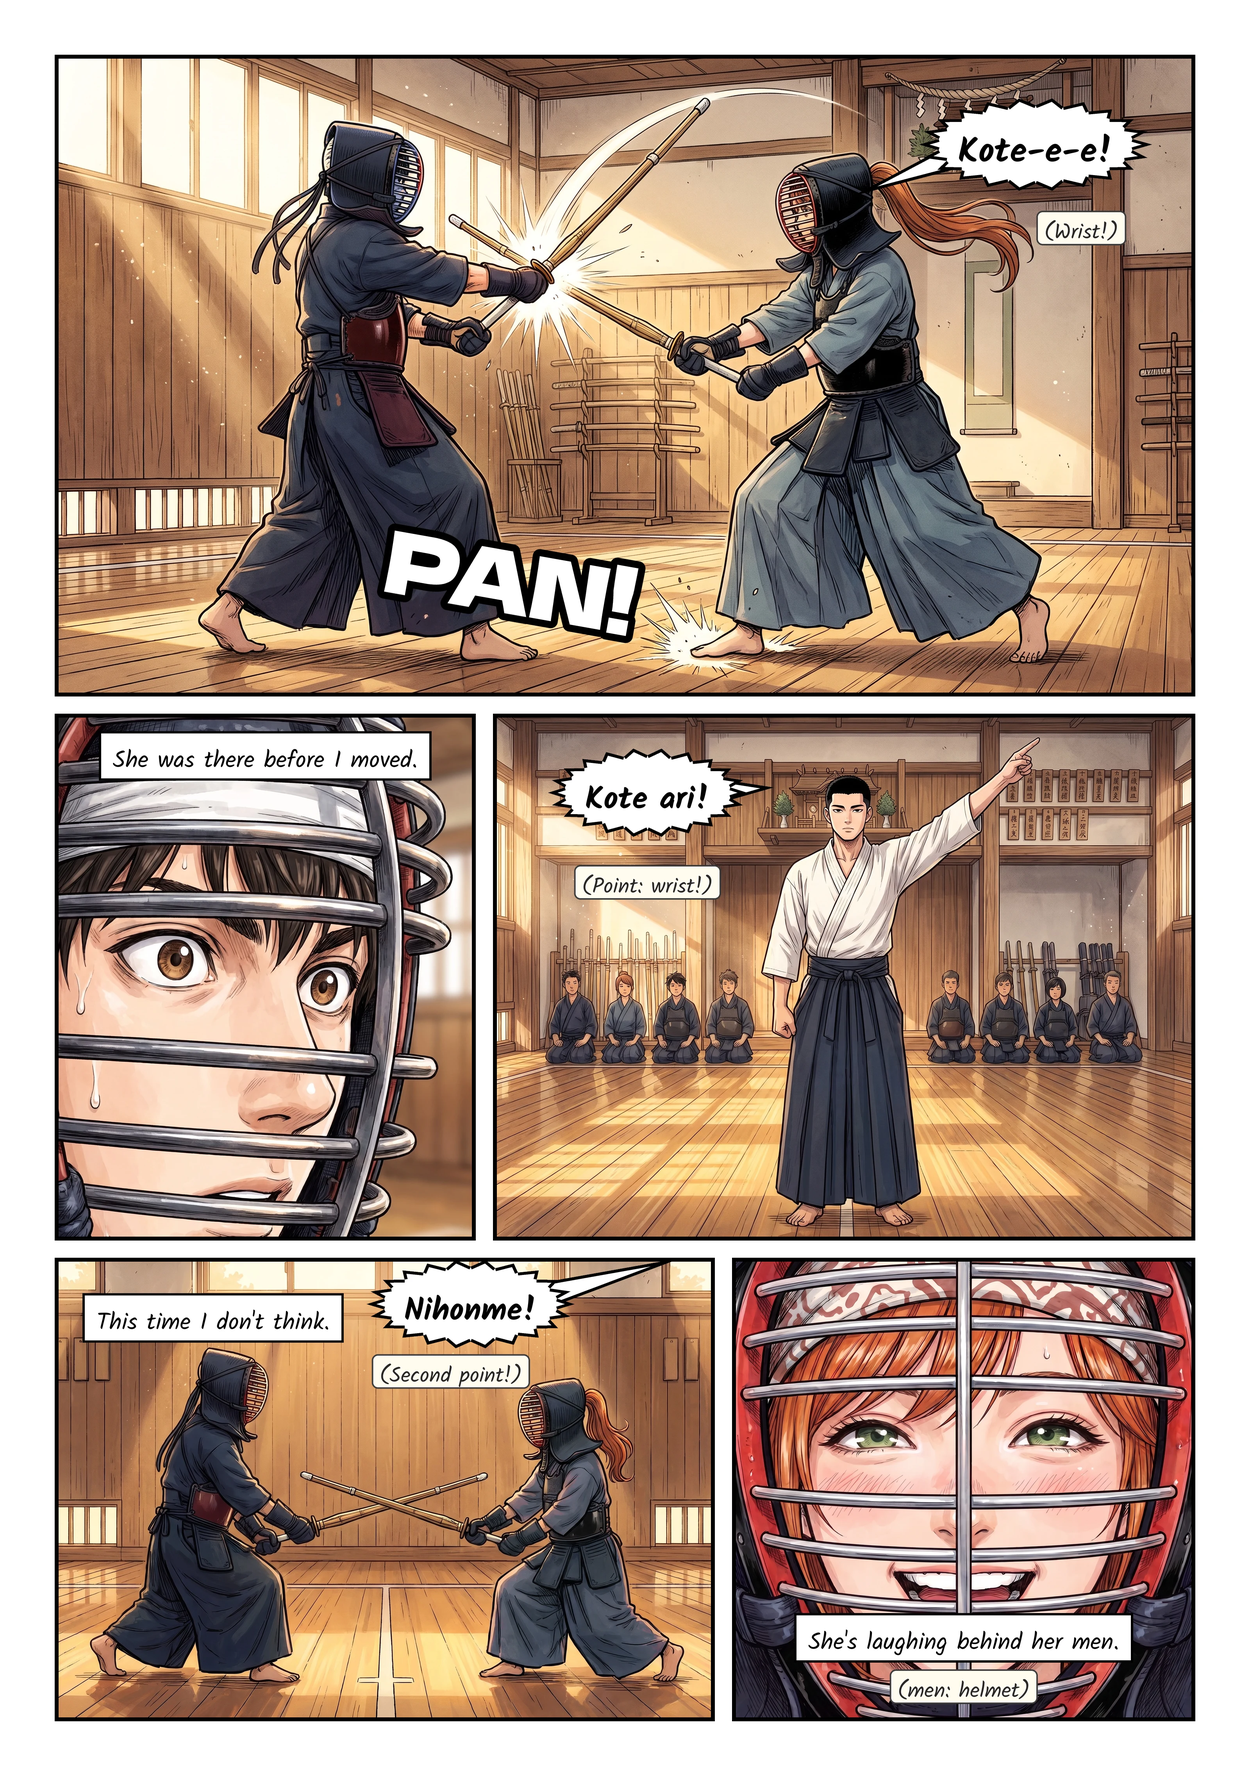
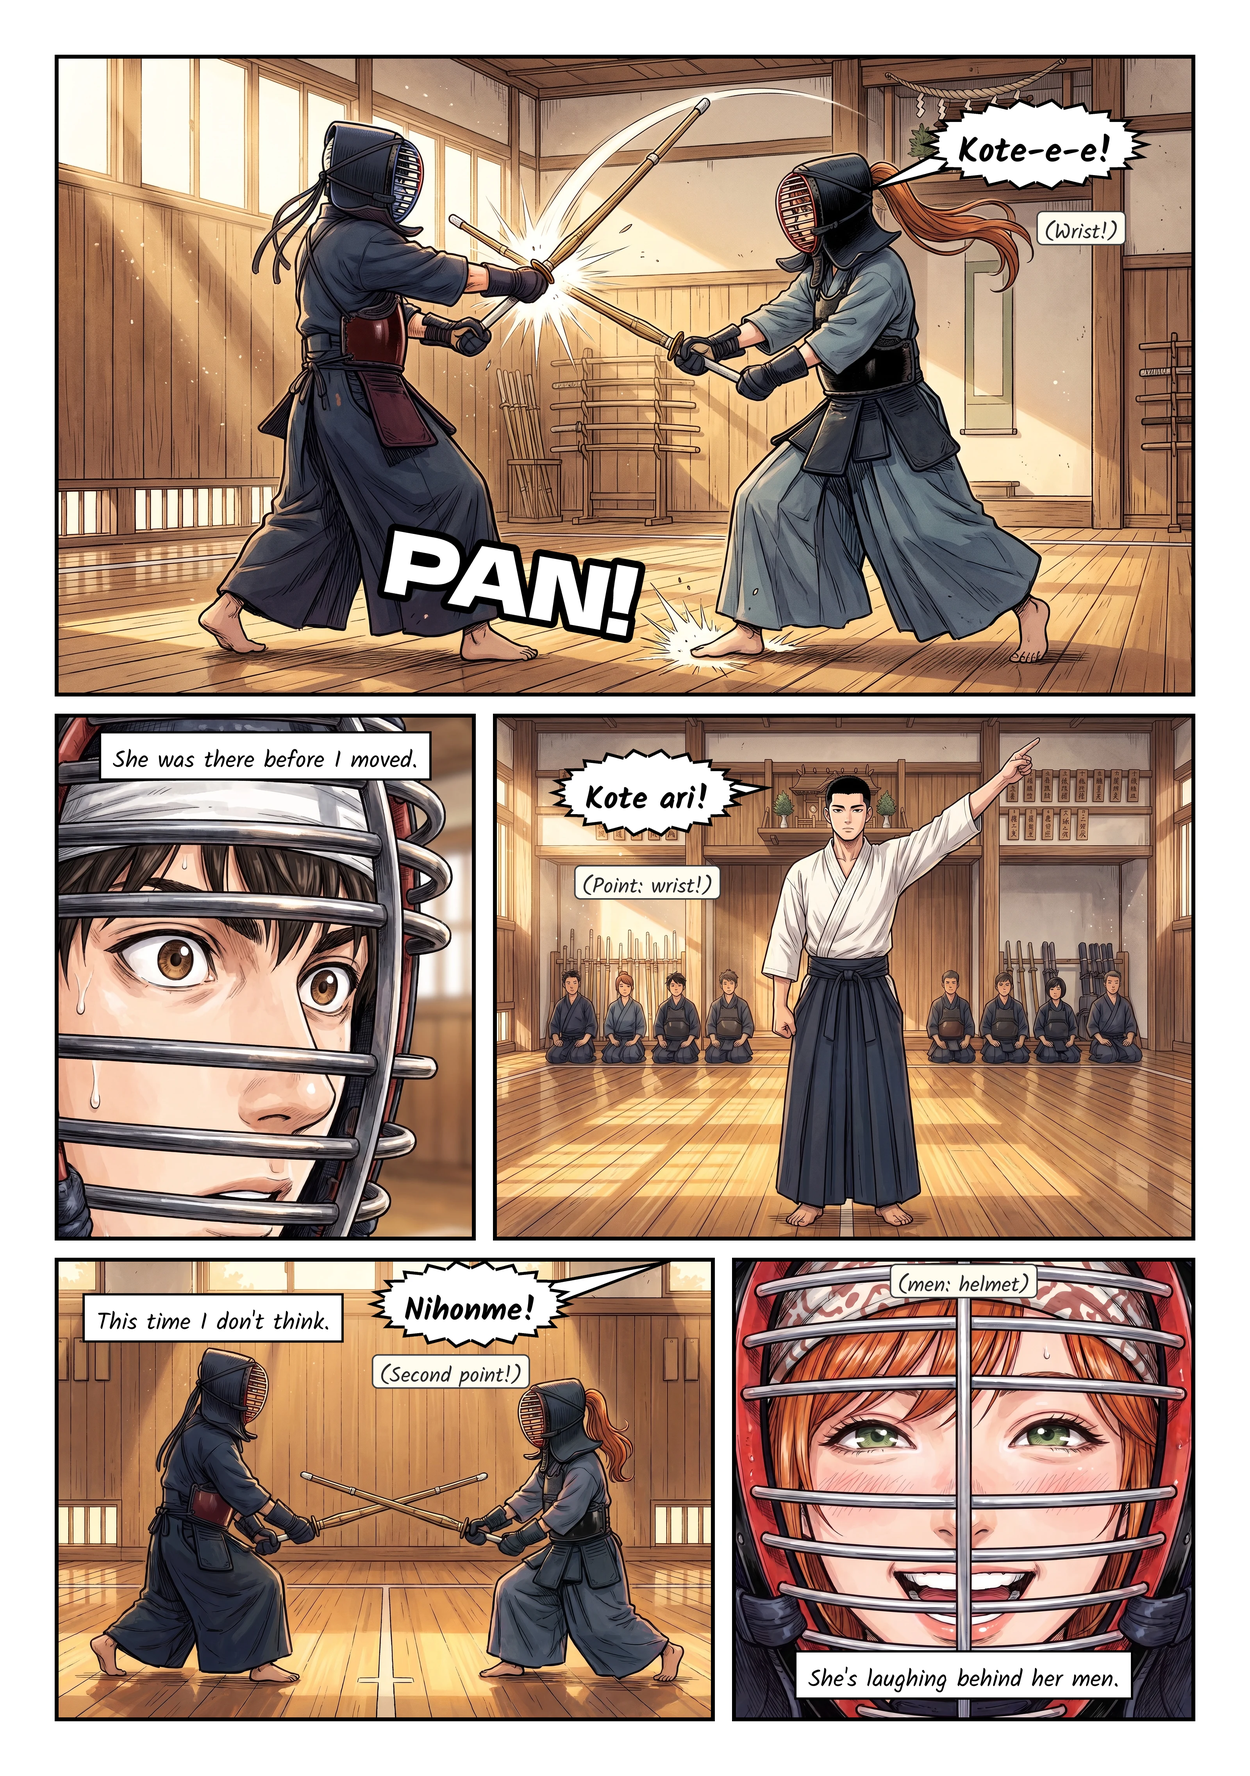
Ch2 punch list: independent check's must-fix (p2-4 caption off her mouth), note popups show the tapped use's gloss, walk to school on the river path; records, log and handover addendum
Claude-Session: https://claude.ai/code/session_01RwxJ99cbnypmrRJW8WLjFt

Changed region(s): [[0.625, 0.9062, 0.9062, 0.9688], [0.7188, 0.6875, 0.8438, 0.75]]

diff --git a/v2/index.html b/v2/index.html
@@ -636,15 +636,15 @@ let curSegs=[], curLen=0;
 function renderTo(n){ textEl.textContent=''; let left=n, wrap=null;
   for(const x of curSegs){ if(left<=0) break; const piece=x.t.slice(0,left); left-=x.t.length;
     let parent=textEl;
-    if(x.n){ if(!x.g||!wrap){ wrap=document.createElement('span'); wrap.className='tn'; wrap.dataset.n=x.n; wrap.setAttribute('role','button'); wrap.tabIndex=0; textEl.appendChild(wrap); } parent=wrap; }
+    if(x.n){ if(!x.g||!wrap){ wrap=document.createElement('span'); wrap.className='tn'; wrap.dataset.n=x.n; if(x.gl){ wrap.dataset.t=x.t; wrap.dataset.g=x.gl; } wrap.setAttribute('role','button'); wrap.tabIndex=0; textEl.appendChild(wrap); } parent=wrap; }
     else wrap=null;
     if(x.g){ const sp=document.createElement('span'); sp.className='gl'; sp.textContent=piece; parent.appendChild(sp); } else parent.appendChild(document.createTextNode(piece)); } }
 const noteEl=$('#note');
 function noteOn(){ return noteEl.classList.contains('on'); }
 let noteKey=null;
-function openNote(k){ const body=NOTES[k]; if(!body) return; setSkip(false); clearTimeout(autoTimer); noteKey=k;
+function openNote(k, term, gloss){ const body=NOTES[k]; if(!body) return; setSkip(false); clearTimeout(autoTimer); noteKey=k;
   if(!seenNotes[k]){ seenNotes[k]=1; store.set('v2notes',seenNotes); }   // reading a note always counts as meeting it
-  const s=NOTE_T[k]||{}; noteEl.querySelector('.nt').textContent=s.term||k; noteEl.querySelector('.ng').textContent=s.gloss||'';
+  const s=NOTE_T[k]||{}; noteEl.querySelector('.nt').textContent=term||s.term||k; noteEl.querySelector('.ng').textContent=gloss||s.gloss||'';   // the tapped use's own spelling and gloss (Oct 25)
   noteEl.querySelector('.nb').textContent=body; noteEl.classList.add('on'); }
 function closeNote(){ if(!noteOn()) return; noteEl.classList.remove('on'); noteKey=null; if(curLine&&!typing) scheduleAuto(); }
 function markNotes(){ if(skipOn) return; let dirty=false; curSegs.forEach(x=>{ if(x.n&&!x.g&&!seenNotes[x.n]){ seenNotes[x.n]=1; dirty=true; } }); if(dirty) store.set('v2notes',seenNotes); }
@@ -1128,7 +1128,7 @@ function toTitle(){
 let downTyping=false;
 app.addEventListener('pointerdown',()=>{ downTyping=typing; }, true);
 textEl.addEventListener('click',e=>{ const t=e.target&&e.target.closest&&e.target.closest('.tn'); if(!t||typing||downTyping) return;
-  e.stopPropagation(); openNote(t.dataset.n); if(e.detail) t.blur(); });   // a pointer tap leaves no keyboard focus on the term
+  e.stopPropagation(); openNote(t.dataset.n, t.dataset.t, t.dataset.g); if(e.detail) t.blur(); });   // a pointer tap leaves no keyboard focus on the term
 textEl.addEventListener('mousedown',e=>{ if(e.target&&e.target.closest&&e.target.closest('.tn')){ e.preventDefault(); const a=document.activeElement; if(a&&a!==document.body&&a.blur) a.blur(); } });   // pointer presses don't focus a term (keyboard Tab still does)
 document.addEventListener('click',e=>{ if(!noteOn()) return; const t=e.target, tn=t&&t.closest&&t.closest('.tn');
   if(tn && tn.dataset.n!==noteKey) return;   // a different term opens its own note
@@ -1147,7 +1147,7 @@ document.addEventListener('keydown',e=>{
   if(noteOn() && (e.key==='Escape'||e.key===' '||e.key==='Enter'||e.key==='ArrowRight')){ e.preventDefault(); closeNote(); return; }
   if(noteOn() && devOn && (e.key==='ArrowLeft'||e.key==='PageUp'||e.key==='PageDown')) closeNote();
   const tn=e.target&&e.target.closest&&e.target.closest('.tn');
-  if(tn && (e.key===' '||e.key==='Enter') && !typing){ e.preventDefault(); openNote(tn.dataset.n); return; }
+  if(tn && (e.key===' '||e.key==='Enter') && !typing){ e.preventDefault(); openNote(tn.dataset.n, tn.dataset.t, tn.dataset.g); return; }
   if(e.key===' '||e.key==='Enter'||e.key==='ArrowRight'){ if(!overlayOpen()&&!(e.target&&e.target.closest&&e.target.closest('button,input'))){ e.preventDefault(); if(skipOn) setSkip(false); else advance(); } }
   if(e.key==='Escape') closePanels();
   if(devOn && S && $('#title').hidden && !overlayOpen()){ if(e.key==='ArrowLeft'){ e.preventDefault(); stepLine(-1); } else if(e.key==='PageUp'){ e.preventDefault(); stepScene(-1); } else if(e.key==='PageDown'){ e.preventDefault(); stepScene(1); } }
@@ -1184,7 +1184,8 @@ function loadScript(){
   if(!scriptP) scriptP=fetch('script.json').then(r=>{ if(!r.ok) throw new Error('could not load the story (script.json '+r.status+')'); return r.json(); })
     .then(j=>{ S=j.script; SPK=j.speakers; SIG=sigOf(S); S.forEach(c=>{ if(c.t==='scene'&&c.title) SCENE_T[c.id]=c.title; });
       NOTES=(j.notes&&typeof j.notes==='object')?j.notes:{}; NOTE_T={};
-      S.forEach(c=>{ if(c.text) for(const m of String(c.text).matchAll(/\{([^|}]+)\|([^|}]+)(?:\|([^}]+))?\}/g)){ if(m[3]) continue; const k=m[1].trim().toLowerCase(); if(NOTES[k]&&!NOTE_T[k]) NOTE_T[k]={term:m[1].trim(), gloss:m[2].trim()}; } }); $('#mCont').disabled=!store.get('v2cont',null); return j; })
+      S.forEach(c=>{ if(c.text) for(const m of String(c.text).matchAll(/\{([^|}]+)\|([^|}]+)(?:\|([^}]+))?\}/g)){ if(m[3]) continue; const k=m[1].trim().toLowerCase(); if(NOTES[k]&&!NOTE_T[k]) NOTE_T[k]={term:m[1].trim(), gloss:m[2].trim()}; } });
+      Object.keys(NOTES).forEach(k=>{ if(!NOTE_T[k]) NOTE_T[k]={term:k, gloss:''}; }); $('#mCont').disabled=!store.get('v2cont',null); return j; })
     .catch(e=>{ scriptP=null; throw e; });
   return scriptP;
 }

diff --git a/story/production-log.md b/story/production-log.md
@@ -9,8 +9,8 @@ The status board, recent decisions (from Oct 15), the open budget, known issues 
 | Chapter | Stage | Owner | Next |
 |---|---|---|---|
 | Ch1 (with the dream at 1.8) | **Approved** (author, Oct 24), **with the cold open as a placeholder** to be edited later (see its row); approved build = commit `05a993b`, kept on GitHub as the branch `approved/v2-ch1` (this session's git proxy refuses tag pushes; the local tag `v2-ch1-approved` points at the same commit, so push it from a session that can). It's the regression baseline for any later Ch1 fix (style guide §9 step 10). History: handover `production/pilot-v2/reviews/ch1/handover-oct18.md`, fix rounds 2–3 (`build-review.md`), punch lists Oct 19, Oct 20 and Oct 24 (`punch-oct*.md`) | Production | Done. Its [P] details go to the Story thread to fold into canon (pilot-notes §3, the Oct 18–24 lists) |
-| Ch2 "Kendo" | **Handed over** (Oct 25) for the author's playthrough; build = branch `v2-ch2` (also on `main` for the link). Handover `production/pilot-v2/reviews/ch2/handover-oct25.md` | Author | Play and flag what doesn't work; answer the Nanoha-scene question (cold reads: all six readers asked for one; the casual reader at 70% Natsuki on the ending) |
-| Ch3–4 | **Outline approved** (author, Oct 24) | Production | After Ch2's punch list. Going over the $40 cap is approved; about $37.00 spent |
+| Ch2 "Kendo" | **Punch list applied** (author's list of Oct 25; record `production/pilot-v2/reviews/ch2/punch-oct25.md`), handed back Oct 25 on the same link; build = branch `ch2-punch-oct25` (merged to `main`). First handover `reviews/ch2/handover-oct25.md` | Author | Play the changes; answer the gloss question (all three round-3 cold readers found the every-use glosses tiring: keep, or inline English once per scene with the tappable underline on every use) |
+| Ch3–4 | **Outline approved** (author, Oct 24) | Production | After Ch2 is approved (chapter-by-chapter review). Going over the $40 cap is approved; about $40.20 spent |
 | Cold open | **Deferred** until most of the story is written (Oct 19; briefly taken out on Oct 20, then put back the same evening) | — | The author returns to it then: what goes there, and whether it's animated or music over CGs. The build keeps the Oct 18 version, which a tap skips once seen |
 
 **Other work**
@@ -33,7 +33,7 @@ The status board, recent decisions (from Oct 15), the open budget, known issues 
 - Approval of the chapter map (its header still marks it a Proposal). The W7 question was answered Oct 21 (yes).
 - The Prologue/Ch1 dream music (`memory`, silence, or a new cue at about $2), after he hears the Ch2 catch.
 - Pilot names, kanji and POV (pilot-notes §1).
-- Whether Ch2 gets a short Nanoha scene: he leans no (Oct 25), not committed. Whether the reader windows widen from 3–4 to 4–8 chapters: after the pilot.
+- Ch2's glosses: every use (as asked, Oct 25) or inline once per scene with the underline on every use (all three round-3 cold readers found every use tiring). Whether the reader windows widen from 3–4 to 4–8 chapters: after the pilot. Whether Ch1 also gets Natsuki at +0.5 (Ch1 stays at +1 for now, as asked).
 
 **Threads and who owns what:** the repo's `CLAUDE.md`.
 
@@ -122,16 +122,17 @@ The status board, recent decisions (from Oct 15), the open budget, known issues 
 | 10-25 | **Ch2 built and handed over** (Production; §9 in full): writing gates, art with on-model checks (two rounds), 152 voiced lines transcript-checked twice, iPad playthrough with phone and desktop spot checks, the snapshot diff against the approved Ch1, an independent build review (5 must-fix items fixed, then re-run). Handover `production/pilot-v2/reviews/ch2/handover-oct25.md`; [P] list in pilot-notes §3. Engine fixes that also touch Ch1: the living-still guard (broken on this branch only, Oct 24) and entering sprites no longer slide. |
 | 10-25 | **[P] (Production): Kōhei's work clothes are a white T-shirt and brown bib apron** (style guide §2; was white shirt and waist apron), matching the script's apron with the cartoon chef. Easy to reverse. |
 | 10-25 | **Decided (author): the "no reader sure" rule is loosened.** A cold reader may pass 70% at a single checkpoint, as long as it evens out as the chapters go (his words). The windows stay at about 3–4 chapters for now; whether they widen to 4–8 is open until after the pilot. **The Ch2 Nanoha scene:** he's inclined to leave Ch2 without one ("normal in manga," not both girls in every chapter), not yet committed. For Story (canon §5) and Planning (§9 step 3, `review/cold-reader.md`): `production/pilot-v2/handoff-story-oct25.md`. |
+| 10-25 | **Ch2 punch list (author, after playing Ch2; record `production/pilot-v2/reviews/ch2/punch-oct25.md`).** **Decided (author):** a short Nanoha scene in Ch2 after all ("I am kind of swinging around to your view"; the shape left to Production: Wednesday morning in his kitchen, `c2_morning`); Japanese terms get their gloss and tappable note on **every** use, not just the first (style guide §5); manga inserts open on the first panel with no whole-page view (§4a); Natsuki at +0.5 semitone for Ch2 only, Ch1 stays at +1 for now. **Also fixed:** the confusing container line cut; c2_0090 names Mizuno; a whiteboard CG of her drawing; clearer mop and interlude lines; the snow line replaces "mostly vending machines"; the practice music stops at the end of practice; the catch animation now shows the slip and the fall; a face-window bug that showed the previous face on a cold cache; a "Tap to continue" hint during texts. Checks: a writing check, cold read round 3 (no reader at 70% anywhere; ending Natsuki 58, wanting about even, dream woman Natsuki 55), an on-model check (two must-fix rounds on the catch and the whiteboard), playthroughs at all three sizes, the Ch1 regression diff, and an independent check (one must-fix, fixed). About $3.20; running total about $40.20. |
 
 ## 3. Budget (open lines)
 | Line | Cap | Spent | Notes |
 |---|---|---|---|
-| Pilot v2 (Prologue + Ch1–4), Oct 16 | $40 (going over approved Oct 24) | about $37.00 (Oct 20: + about $2.25 for Natsuki's restyle and about $1.46 for her Ch1 art; Oct 24: + about $4.70 for her face A, the Ch1 punch list and her re-voice; Oct 24–25: + about $15.30 for Ch2) | Ch1: ~37 images, 2 living stills, 40 voice takes, 4 rounds of transcript checks. Ledger: `production/pilot-v2/ledger.md` |
+| Pilot v2 (Prologue + Ch1–4), Oct 16 | $40 (going over approved Oct 24) | about $40.20 (Oct 20: + about $2.25 for Natsuki's restyle and about $1.46 for her Ch1 art; Oct 24: + about $4.70 for her face A, the Ch1 punch list and her re-voice; Oct 24–25: + about $15.30 for Ch2; Oct 25: + about $3.20 for the Ch2 punch list) | Ch1: ~37 images, 2 living stills, 40 voice takes, 4 rounds of transcript checks. Ledger: `production/pilot-v2/ledger.md` |
 | Manga Vol. 1 | $50 | $33.01 | **On hold**, about $17 left; 8 known issues (§4) |
 
 Closed lines (tests, the shipped pilot, design passes, music cues): see the archive.
 
-**Cumulative fal spend:** about $105–110 (Oct 25). fal's dashboard has the exact figure.
+**Cumulative fal spend:** about $108–113 (Oct 25). fal's dashboard has the exact figure.
 
 ## 4. Known issues
 **Manga Vol. 1, worst first:**

diff --git a/production/pilot-v2/reviews/ch2/punch-oct25.md b/production/pilot-v2/reviews/ch2/punch-oct25.md
@@ -12,7 +12,7 @@ The author played Ch2 on his iPad and sent this list (discussion first, then "go
 | 6 | Manga inserts: don't show the full page before panel by panel | The insert opens on its first panel; page turns open on the next page's first panel (style guide §4a updated) |
 | 7 | "The floor belongs to whoever stays after practice" is confusing | "Until the first-years join, whoever stays after practice cleans the floor. It's usually me." |
 | 8 | Switch the music after practice (the practice cue is battle music) | The practice cue fades out at the bow that ends practice (start of the debrief); the debrief and the mop race play without music; `memory` comes in at the catch, as before |
-| 9 | The catch animation doesn't show her falling and being caught | Rebuilt: a new start frame with her heel slipping and him a step away, a Kling shot of the fall and catch with a push-in, joined on the held catch to the approved settle into the CG (5.4 s; `art/prompts.md`) |
+| 9 | The catch animation doesn't show her falling and being caught | Rebuilt: a new start frame with her heel slipping and him a step away, a Kling shot of the fall and catch with a push-in, joined on the held catch to the approved settle into the CG (5.1 s; `art/prompts.md`). The art check sent it back once (the first version zoomed the figures against a still room and put his hand across her torso); the second version starts at the catch's own framing |
 | 10 | c2_0215: his face flashed embarrassed, then normal (first time only) | A real bug: the face window kept the previous face until the new one loaded (so only on a cold cache). Face windows now wait for their image, and upcoming faces load ahead |
 | 11 | "Mostly vending machines" doesn't work | "Sapporo is four hundred pictures of snow." (re-voiced) |
 | 12 | c2_0259: the same face flash (Kōhei's face before Natsuki's) | Same fix as 10 |
@@ -24,4 +24,9 @@ The author played Ch2 on his iPad and sent this list (discussion first, then "go
 ## Checks
 - **Writing check** (fresh agent; continuity, speech sheets, Japanese pass, glosses) on every new or changed line: three must-fix items applied (the whiteboard CG moved after Rika's punchline; c2_0315 "looks at me properly"; c2_0282's ending), plus c2_0174 "cleans", c2_0313 ("after karaoke, with some girls from class"; 連中 was dismissive), c2_0316 "That one's new.", and zanshin glossed "staying alert after the strike" where Takatsuki uses it. Kept on purpose: two girls reading Kōhei's face in one chapter (§3b lists it as a tic; here one notices a physical detail and the other keeps a catalogue). For Story: c2_0324's change of subject resembles Ch3's window talk; "Chibi" (c1_0256) has no gloss (a nickname; the author's call).
 - **Voices:** 15 new takes transcript-checked (Wizper; 15 of 15 match); levels within the usual range (only the two known dream lines flag).
-- (cold read, on-model check, playthrough, snapshot diff and the independent check: below as they finish)
+- **Cold read, round 3** (three fresh readers, Ch1–2; `cold-read-round3.md`): no reader at 70% on any of the three numbers at any checkpoint (rounds 1–2 each had one at 70 on the ending); end of Ch2: ending Natsuki 58 on average (was 62), wanting about even (Nanoha's share about 48, was 44), dream woman Natsuki 55 (was 61). All three swung the dream woman to Nanoha right after the morning scene. **All three called the every-use glosses the most tiring thing in Ch2** (for the author; see the handover). All three caught the borrowed glasses lying on the whiteboard's ledge: removed from the art.
+- **On-model check** (fresh agent) of the whiteboard, the catch and the new gloss captions: must-fix items were the spare glasses and shinai on the whiteboard, and the first rebuilt catch (the figures grew 2.3× against a still room, his left hand lay across her torso, a ghost and freeze at the join). Fixed: both props removed and "lesson one"; the catch rebuilt from a start frame at the catch's own framing (v4). Backlog fixed too: the p2-1 gloss moved off her ponytail.
+- **Playthroughs:** every line at iPad landscape (`qa_play.py --every`), then full runs at iPad, phone and desktop: 556 lines, 0 missed, 329 voiced lines all play, no failed requests (only the sandbox's blocked Google Fonts), the insert runs 10 steps for 10 panels.
+- **Regression against the approved Ch1:** only c1_0046 and c1_0047 changed (their new glosses), plus the 13 sub-pixel sprite positions already reported in the Ch2 build review.
+- **Independent check** (fresh agent, scoped to the batch diff, with a Japanese pass): one must-fix, the p2-4 caption had moved up over Natsuki's laughing mouth to make room for its gloss; fixed (caption back where it was, the gloss at the top of the panel over her head cloth). Everything else passed, including face windows on a throttled cold cache and Natsuki's Ch2 pitch (median −0.48 semitone against the previous build). Backlog fixed at the same time: a note opened from a later use now shows that use's own spelling and gloss; the walk to school (c2_0323–0324) shows the river path instead of the kitchen. Still on the backlog: face windows can stay empty for a few seconds on a very slow network (never the wrong face); a 0.1–0.2 s glimpse of the empty dojo with her sprite fading before the catch video's first frame; the catch's grab happens in one drawing (Kling's 8 fps); "(Body!)" is small at phone size; an old save on the cut line c2_0299 restarts the Tuesday scene.
+- **Spend:** about $3.20 (art $2.90, voices $0.29); running total about $40.20 (going over $40 is approved).

diff --git a/production/pilot-v2/reviews/ch2/handover-oct25.md b/production/pilot-v2/reviews/ch2/handover-oct25.md
@@ -41,3 +41,26 @@ Ch2 about $15.30 (art $8.57; voices $2.55; on-model fixes $4.14); running total 
 
 ## Waiting on you
 - A Nanoha scene in Ch2 (`cold-read-round2.md`): all six cold readers asked for one, and the casual reader reached 70% on Natsuki for the ending, which §9 counts as too sure. It's a plot beat, so it's your call. Asked Oct 25, 8:30 am: (1) a short Wednesday-morning kitchen scene, about 10 lines, no new art (recommended; wording [P]); (2) a smaller touch (a text, or a line in an existing scene); (3) leave Ch2 as is and let Ch3–4 rebalance. The build has no Nanoha scene yet.
+
+---
+
+# Punch list, Oct 25 (handed back the same evening)
+**Play:** the same link. Everything on your list is in; the item-by-item record is `punch-oct25.md`.
+
+**New [P] details** (the full list is in `story/pilot-notes.md` §3, v2 Ch2):
+- The Wednesday-morning scene: Akane upstairs "losing an argument with her hair"; the honey throat lozenge.
+- Nanoha's "That one's new… I'll have to give it a number."
+- The whiteboard labels ("KENDO / lesson one", "KOTE / wrist (right one!)", "TSUKI / throat / not until high school!!").
+- The board stands on legs by the door.
+- The walk to school now shows the river path.
+
+**Known compromises:**
+- The new catch animation is 5.1 s. The grab itself happens between two drawings (Kling animates at about 8 drawings a second), and her ponytail swings twice.
+- For a fraction of a second before the catch video starts, the empty dojo shows with her sprite fading.
+- On a very slow connection a face window can stay empty for a few seconds before its face loads (it never shows the wrong face now).
+
+**Spend:** about $3.20; running total about $40.20.
+
+**Waiting on you:**
+- The glosses. All three new cold readers called the every-use glosses the most tiring thing in Ch2, and two said they flatten emotional lines. The middle way: the English in brackets only on the first use in each scene, and the dotted underline (tap for the note) on every use. Keep it as it is, or switch?
+- Natsuki at +0.5 in Ch1 too, whenever you want it.
